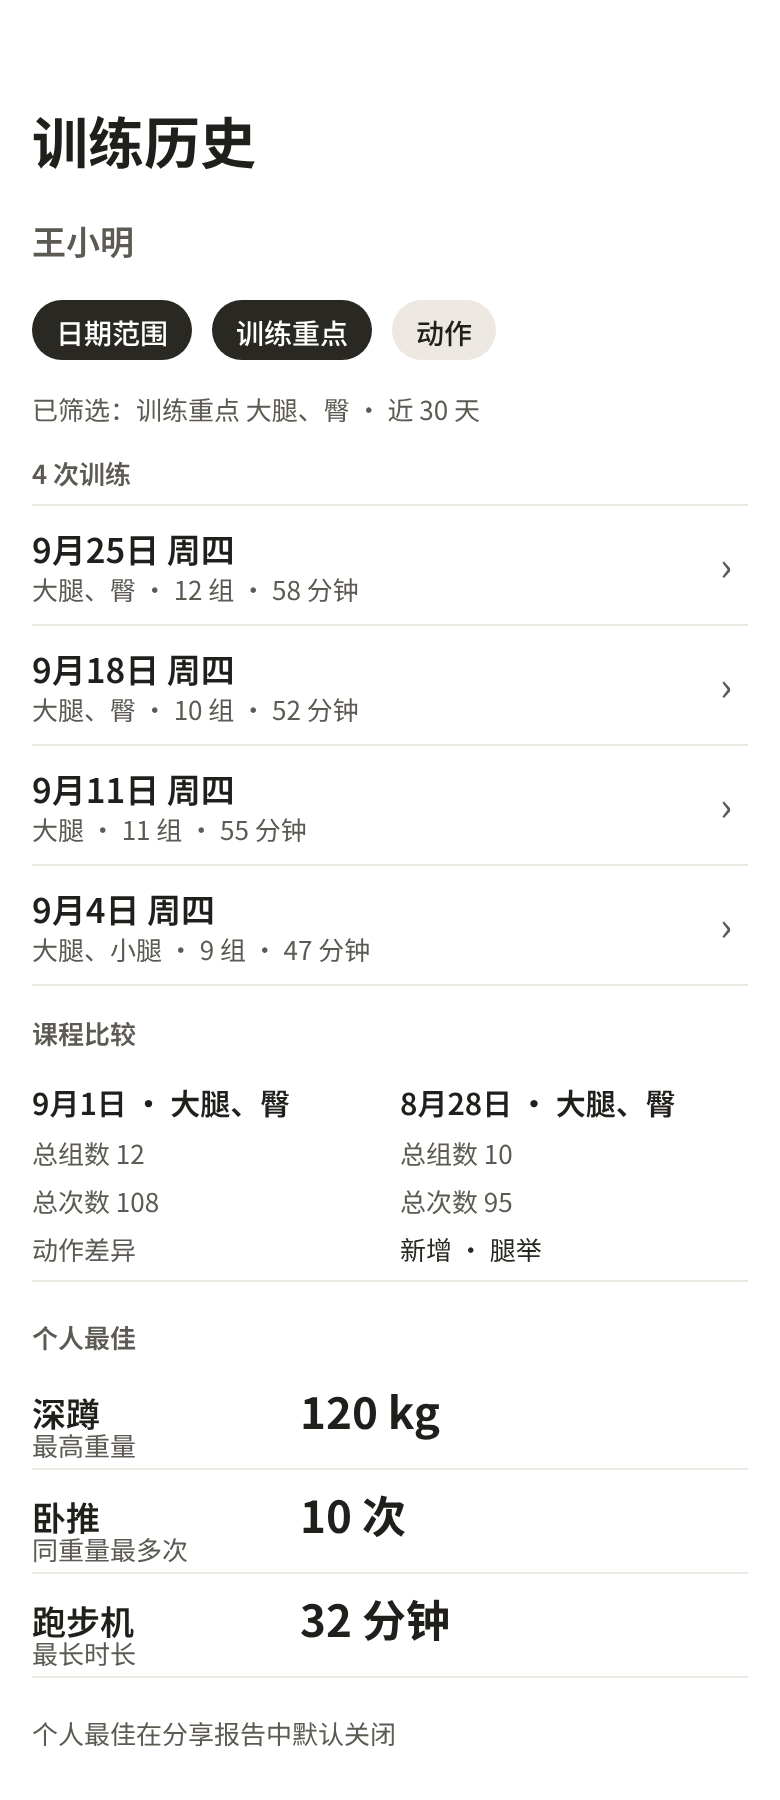
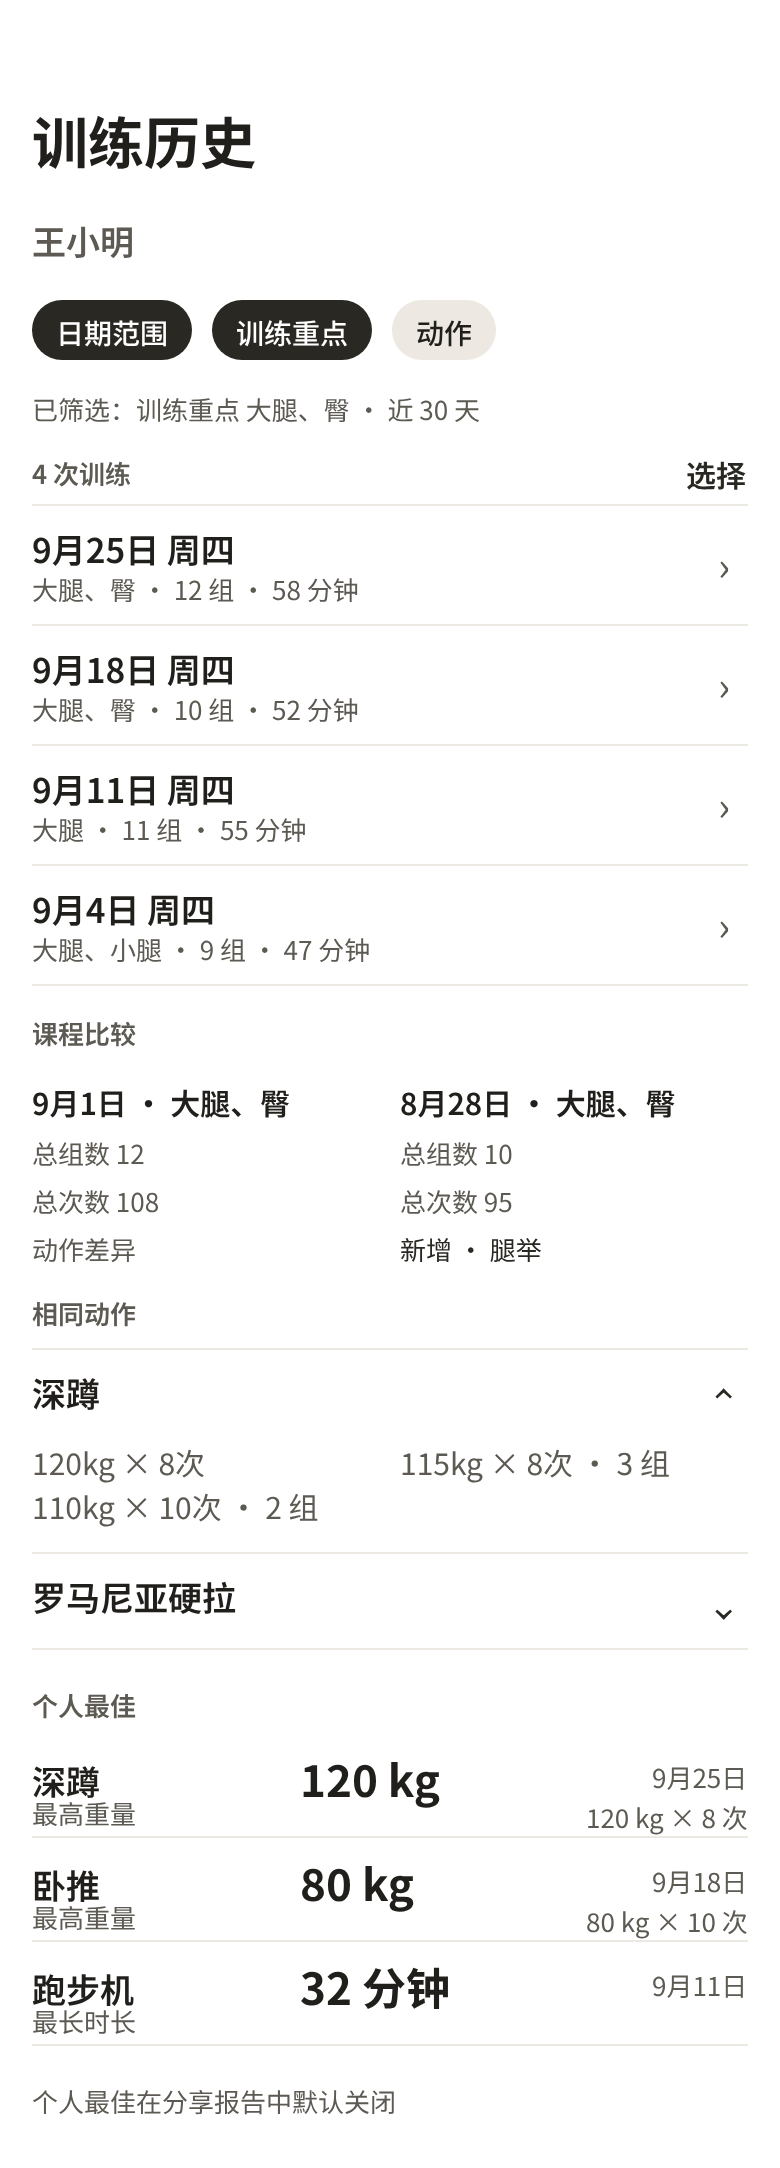
docs(design): backfill T069i review changes — history select mode, shared exercises, best details
Design system §8.1 documents the 相同动作 block (the select mode and the
personal-best row were added in a5ba956); §1.2 records the D9 board
update and the re-exported 32-training-history-v2 (Penpot snapshots
before-T069i-review 2026-09-28 → T069i review …).

diff --git a/design/design-system/README.md b/design/design-system/README.md
@@ -33,7 +33,7 @@
 Phase 6.5 人工审核（T063）发现 8 个核心界面需要结构调整，并提出 D1–D9 新增设计需求（`specs/002-m1-b-coach-operations/checklists/design-review-8-screens.md`）。初稿在 Penpot「M1-B G5 Design」Foundations 页右侧绘制，经产品负责人 2026-09-26 审稿修改后批准：
 
 - 快照：`before-D1-D9-drafts 2026-09-26` → `D1-D9-drafts 2026-09-26 (pending approval)` → `D1-D9-drafts r2 …` → `D1-D9 approved 2026-09-26 (D8 variant B)`。
-- 导出：`design/m1-b-hifi/screens/18`–`32`（2 倍图）；2026-09-27 补 `33`、`34` 并重新导出 `20`（Penpot 快照 `before-T069c-filter-sheet 2026-09-27` → `T069c library filter + options sheets 2026-09-27 …`，画板 D2c、D2d）。**新画稿取代原画稿中的对应界面**：
+- 导出：`design/m1-b-hifi/screens/18`–`32`（2 倍图）；2026-09-27 补 `33`、`34` 并重新导出 `20`（Penpot 快照 `before-T069c-filter-sheet 2026-09-27` → `T069c library filter + options sheets 2026-09-27 …`，画板 D2c、D2d）；2026-09-28 按 T069i 审核重新导出 `32`（画板 D9 加入比较选择、相同动作明细、个人最佳日期与次数；快照 `before-T069i-review 2026-09-28` → `T069i review: …`）。**新画稿取代原画稿中的对应界面**：
 
 | 新画稿 | 需求 | 取代 / 补充 |
 |---|---|---|
@@ -291,6 +291,7 @@ Phase 6.5 人工审核（T063）发现 8 个核心界面需要结构调整，并
 | 动作选项面板（20，2026-09-27） | 点击动作行（右侧 `›`）打开底部面板：标题为动作名，副标题同行内副文字；三行「收藏 / 隐藏 / 辅助器械」+ 开关；自定义动作多一行「编辑动作 ›」。已收藏的动作在行尾 `›` 前显示实心星标 |
 | 训练历史 · 比较选择模式（32，2026-09-28 产品负责人批准） | 「N 次训练」区段标签同一行右侧放链接式按钮「选择」；进入选择模式后按钮变「完成」，结果行左侧出现组状态圆圈同款勾选圈（未选 `border.control` 描边，已选 `action.primary` 实心 + 白色 ✓），行尾 `›` 隐藏，点行为勾选；最多两条，勾第三条时替换最早勾的一条。「课程比较」标签在选择模式下显示「课程比较（已选 N / 2）」。两栏标题为静态文字「M月d日 · 部位」（不再用下拉选择器）。默认预选最新一次与部位相同的上一次 |
 | 训练历史 · 个人最佳行（32，2026-09-28 产品负责人批准） | 三栏：左「动作名 `headline` / 类型 `caption` `text.secondary`」；中 `titleEmphasis` 最佳值（如「25 kg」）；右两行 `caption` `text.secondary` 右对齐：日期「9月17日」与该组「25 kg × 8 次」。最高重量取该重量下次数最多的一组，次数也相同取最近一次；时长、距离类只显示日期。区段标签「个人最佳」 |
+| 训练历史 · 相同动作明细（32，2026-09-28 产品负责人批准） | 「课程比较」总计下方，区段标签「相同动作」；两次训练都有的动作（按名称，与「动作差异」口径一致）各一行：动作名 `headline` + 右侧展开/折叠符号（§7.2 `▾`，展开时朝上），行间分割线。展开后左右两栏各列该动作的已完成组，`callout` 400 `text.secondary`，连续相同的组合并为一行「25kg × 12次 · 6 组」。第一个默认展开，其余折叠；换选比较的两次训练后恢复默认 |
 
 **导航**：画稿中一级页面（今日 / 学员）通过顶部胶囊切换，17 屏里没有底部 Tab 栏；二级页面左上角是返回 `‹` 加 `titleLarge` 标题。
 
